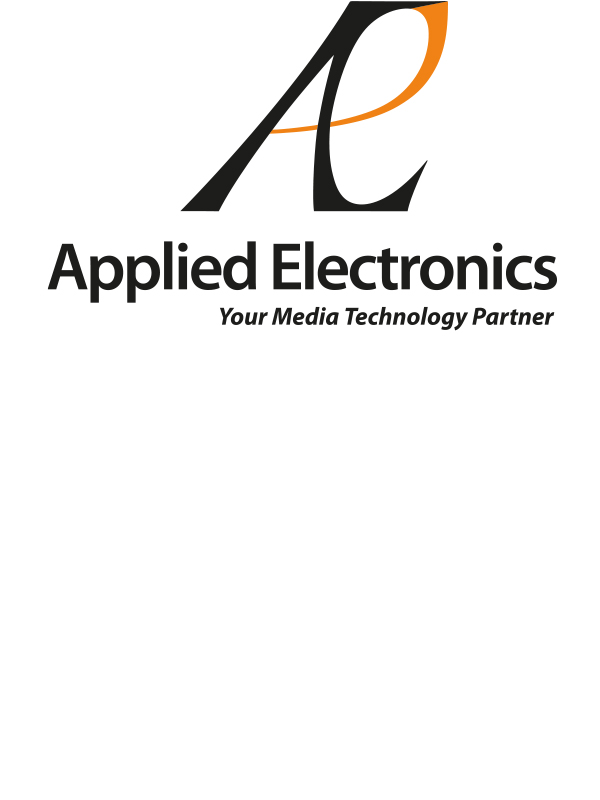
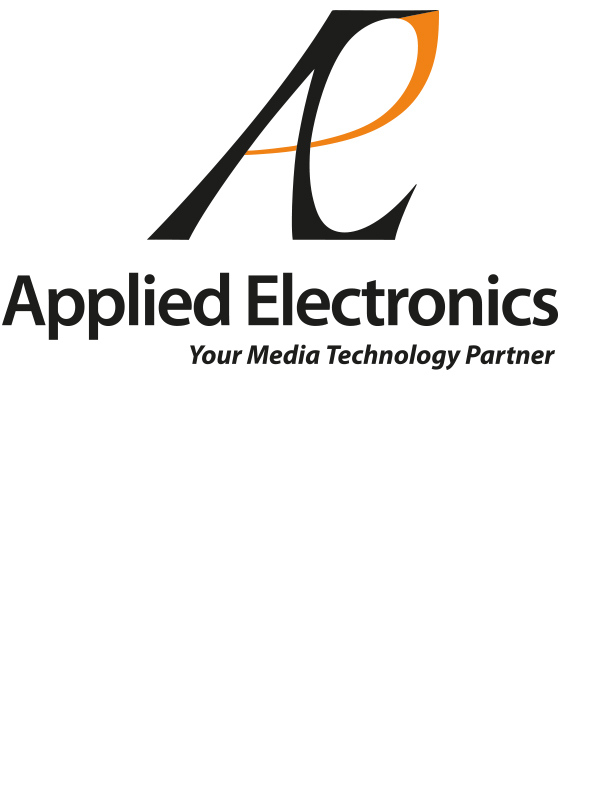
image new and css fix

Changed region(s): [[0.0, 0.0, 0.93, 0.4688]]

diff --git a/src/styles/contact-card.scss b/src/styles/contact-card.scss
@@ -45,10 +45,10 @@
     margin: 0;
 
     img {
-      max-width: 120px;
+      max-width: 140px;
       background-color: #fff;
       aspect-ratio: 3/4;
-      margin: 20px 0 0 30px;
+      margin: 20px 0 0 15px;
     }
   }
 
@@ -77,7 +77,7 @@
     display: flex;
     flex-direction: column;
     justify-content: flex-end;
-    margin: 1em 0 1em 1em;
+    margin: 1em 0 1em 0;
 
     .sc_detail-item {
       display: flex;
